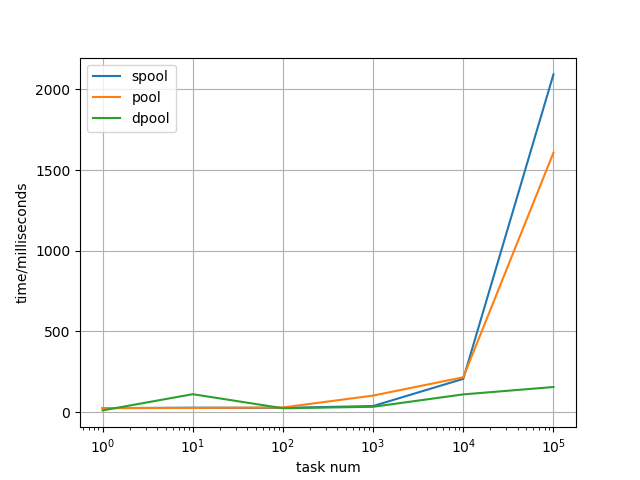
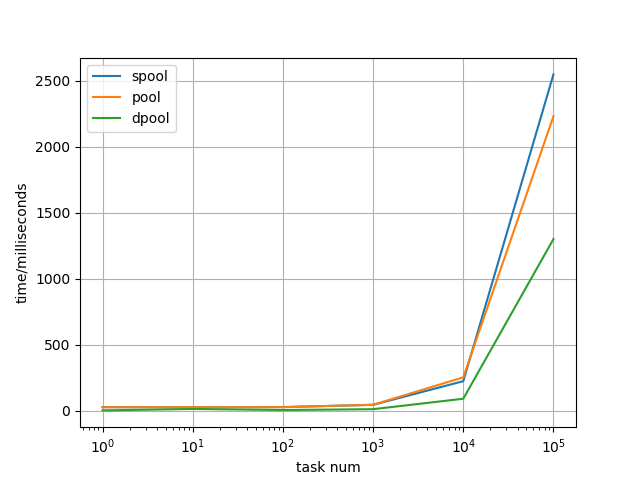
Big update: Better benchmark, README and performance

diff --git a/includes/dynamic_pool.hpp b/includes/dynamic_pool.hpp
@@ -25,13 +25,22 @@ namespace thread_pools
 class dpool final
 {
 public:
-    dpool(std::size_t = no_input, std::size_t = no_input, std::size_t = std::thread::hardware_concurrency());
+    dpool(std::size_t = 2 + std::thread::hardware_concurrency(), std::size_t = no_input);
     ~dpool();
     template <std::size_t Sz, typename Func, typename ... Args>
     auto enqueue(Func&& f, Args&& ... args) -> std::future<typename std::result_of<Func(Args...)>::type>;
     template <typename Func, typename ... Args>
     auto enqueue(Func&& f, Args&& ... args) -> std::future<typename std::result_of<Func(Args...)>::type>;
-    std::size_t current_threads() noexcept;
+    std::size_t current_threads();
+    std::size_t current_tasks();
+#ifdef GANLER_DEBUG
+    void unsafe_view()     noexcept {
+        std::cout << "----------------------------------------\n"
+                  << "Queue size:" << m_task_queue.size() << '\n'
+                  << "Thread size:" << m_workers.size()   << '\n'
+                  << "Idle threads:" << m_idle_num << '\n';
+    }
+#endif
 private:
     static constexpr std::size_t no_input        = std::numeric_limits<std::size_t>::max();
     using                        task_type       = std::function<void()>;
@@ -40,12 +49,12 @@ private:
 
     const std::size_t            m_max_size;
     const std::size_t            m_max_idle_size;
-    std::atomic<std::size_t>     m_idle_num;
+    std::atomic<std::size_t>     m_idle_num      { 0 };
     std::mutex                   m_mu;
     std::condition_variable      m_cv;
     thread_map                   m_workers;
     std::queue<task_type>        m_task_queue;
-    bool                         m_shutdown      = false;
+    std::atomic<bool>            m_shutdown      { false };
 
     // Helper
     void make_worker();                          // Called by locked function.
@@ -54,28 +63,28 @@ private:
 
 
 // Implementation
-inline std::size_t dpool::current_threads() noexcept
+inline std::size_t dpool::current_threads()
 {
     std::lock_guard<std::mutex> lock(m_mu);
     return m_workers.size();
 }
 
-inline dpool::dpool(std::size_t pre_alloc, std::size_t max_idle_sz, std::size_t max_sz)
+inline std::size_t dpool::current_tasks()
+{
+    std::lock_guard<std::mutex> lock(m_mu);
+    return m_task_queue.size();
+}
+
+inline dpool::dpool(std::size_t max_sz, std::size_t max_idle_sz)
 : m_max_size(max_sz), m_max_idle_size( max_idle_sz == no_input ? max_sz / 2 : max_idle_sz)
 {
-    pre_alloc = (pre_alloc == no_input) ? m_max_idle_size : pre_alloc;
-    if(pre_alloc > m_max_idle_size || m_max_idle_size >= m_max_size || m_max_size == 0)
-        throw std::logic_error("Please make sure: pre_alloc <= max_idle_sz && max_idle_sz < max_size && max_sz > 0\n");
-    m_workers.reserve(pre_alloc);
-    for (int i = 0; i < pre_alloc; ++i)
-        make_worker();
-    m_idle_num = pre_alloc;
+    if(m_max_idle_size > m_max_size || m_max_size == 0)
+        throw std::logic_error("Please make sure: max_idle_sz <= max_size && max_sz > 0\n");
 }
 
 inline void dpool::destroy_worker(thread_index index)
 {
-    m_task_queue.push([this, index](){
-        GANLER_DEBUG_DETAIL(m_workers[index].joinable())
+    m_task_queue.emplace([this, index](){
         if(!m_shutdown)
         {
             m_workers[index].join();
@@ -95,6 +104,7 @@ inline void dpool::make_worker()
             if(m_idle_num > m_max_idle_size and !m_shutdown)
             {// Cut the idle threads.
                 destroy_worker(std::this_thread::get_id());
+                --m_idle_num;
                 return;
             }
             --m_idle_num;
@@ -103,17 +113,14 @@ inline void dpool::make_worker()
             lock.unlock(); // LOCK IS OVER.
             task();
             ++m_idle_num;  // ATOMIC
-        }
-    }};
+        }}};
     ++m_idle_num;
     m_workers[thread.get_id()] = std::move(thread);
 }
 
 inline dpool::~dpool()
 {
-    std::unique_lock<std::mutex> lock(m_mu);
     m_shutdown = true;
-    lock.unlock();
     m_cv.notify_all(); // TODO: If I add this code, I found it sometimes become 3x slower. Why?
     std::for_each(m_workers.begin(), m_workers.end(), [](thread_map::value_type& x){ (x.second).join(); });
 }
@@ -122,35 +129,21 @@ template <std::size_t Sz, typename Func, typename ... Args>
 auto dpool::enqueue(Func &&f, Args &&... args) -> std::future<typename std::result_of<Func(Args...)>::type>
 {
     using return_type = typename std::result_of<Func(Args...)>::type;
-    std::packaged_task<return_type()>* task = nullptr; // Why raw pointer? See comments in static_pool.hpp's enqueue().
-    try_allocate(task, std::forward<Func>(f), std::forward<Args>(args)...);
-    auto result = task->get_future();
     if(m_idle_num == 0)
         for (int i = 0; i < std::min(Sz, m_max_idle_size); ++i)
             make_worker();
-    std::unique_lock<std::mutex> lock(m_mu);
-    m_task_queue.emplace([task](){ (*task)(); delete task; });
-    m_cv.notify_one();
-    return result;
+    MAKE_TASK()
 }
 
 template <typename Func, typename ... Args>
 auto dpool::enqueue(Func &&f, Args &&... args) -> std::future<typename std::result_of<Func(Args...)>::type>
 {
     using return_type = typename std::result_of<Func(Args...)>::type;
-    static std::size_t queue_size = 0;
-    std::packaged_task<return_type()>* task = nullptr; // Why raw pointer? See comments in static_pool.hpp's enqueue().
-    try_allocate(task, std::forward<Func>(f), std::forward<Args>(args)...);
-    auto result = task->get_future();
-    GANLER_DEBUG_DETAIL(current_threads())
-    if(m_idle_num == 0)
-        for (int i = 0; i < std::min(std::max(1ul, queue_size), m_max_idle_size); ++i)
-            make_worker();
-    std::unique_lock<std::mutex> lock(m_mu);
-    m_task_queue.emplace([task](){ (*task)(); delete task; });
-    queue_size = m_task_queue.size();
-    m_cv.notify_one();
-    return result;
+    MAKE_TASK(
+            auto sz = std::min({m_task_queue.size(), m_max_idle_size, m_max_size - m_workers.size()});
+            if(m_idle_num == 0 and m_workers.size() < m_max_size)
+                     for (int i = 0; i < sz; ++i)
+                             make_worker();)
 }
 
 }

diff --git a/benchmark.cpp b/benchmark.cpp
@@ -26,12 +26,14 @@ int main() {
 
     constexpr std::size_t psize = 1000;
 //    constexpr std::size_t mission_sz = 1;    // 10, 100, 1000, 10000, 100000
-    constexpr std::size_t execute_time = 10; // milli.
+    constexpr std::size_t execute_time = 1; // milli.
     constexpr std::size_t scale = 6;
 
     std::vector<double> answers[3];
 
     auto bench = [&](std::size_t mission_sz){
+        std::this_thread::sleep_for(std::chrono::milliseconds(1000));
+
         std::cout << ">>> Bench : mission size = " << mission_sz << '\n';
         {   // TEST for thread_pools::spool
             auto beg = std::chrono::steady_clock::now();
@@ -44,6 +46,8 @@ int main() {
             std::cout << "[STATIC POOL TEST] "  << psize << " threads execute time: " << answers[0].back() << " ms\n";
         }
 
+        std::this_thread::sleep_for(std::chrono::milliseconds(1000));
+
         {   // TEST for thread_pools::pool
             auto beg = std::chrono::steady_clock::now();
             {
@@ -55,10 +59,12 @@ int main() {
             std::cout << "[DEFAULT POOL TEST] "  << psize << " threads execute time: " << answers[1].back() << " ms\n";
         }
 
+        std::this_thread::sleep_for(std::chrono::milliseconds(1000));
+
         {   // TEST for thread_pools::dpool
             auto beg = std::chrono::steady_clock::now();
             {
-                thread_pools::dpool pool(0, psize/2, psize);
+                thread_pools::dpool pool(psize); // max_pool_size
                 for (int i = 0; i < mission_sz; ++i)
                     pool.enqueue([execute_time](){ std::this_thread::sleep_for(std::chrono::milliseconds(execute_time)); });
             }

diff --git a/includes/util.hpp b/includes/util.hpp
@@ -4,14 +4,36 @@
 #pragma once
 
 //#define GANLER_DEBUG
+#define TASK_USE_RAW_PTR(X)  \
+    std::packaged_task<return_type()>* task = nullptr;/* Why raw pointer? See comments in static_pool.hpp's enqueue().*/\
+    try_allocate(task, std::forward<Func>(f), std::forward<Args>(args)...);\
+    auto result = task->get_future();\
+    std::lock_guard<std::mutex> lock(m_mu);\
+    m_task_queue.emplace([task](){ (*task)(); delete task; });\
+    X;\
+    m_cv.notify_one();\
+    return result;
+
+#define TASK_USE_SMART_PTR(X) \
+    auto task = std::make_shared<std::packaged_task<return_type ()>>(\
+        std::bind(std::forward<Func>(f), std::forward<Args>(args)...));\
+    auto result = task->get_future();\
+    std::lock_guard<std::mutex> lock(m_mu);\
+    m_task_queue.emplace([task](){ (*task)();});\
+    X\
+    m_cv.notify_one();\
+    return result;
+
+#define MAKE_TASK(X) TASK_USE_RAW_PTR(X)
 
 #ifdef GANLER_DEBUG
 #include <iostream>
 #define GANLER_DEBUG_DETAIL(X) { std::cout << "line: "<< __LINE__ << "\t " << (#X) << " is " << (X) << '\n'; }
+#define DPOOL_UNSAFE_VIEW(X)   { X.unsafe_view(); }
 #else
 #define GANLER_DEBUG_DETAIL(X) {}
+#define DPOOL_UNSAFE_VIEW(X)   {}
 #endif
-
 
 #include <type_traits>
 

diff --git a/includes/static_pool.hpp b/includes/static_pool.hpp
@@ -65,13 +65,7 @@ auto spool<Sz>::enqueue(Func &&f, Args &&... args) -> std::future<typename std::
 // But some new compilers are still using old libc++ version.  So I used raw ptr to make my code more compatible.
 //    auto task = std::make_shared< std::packaged_task<return_type()> >(
 //      std::bind(std::forward<Func>(f), std::forward<Args>(args)...)); // Just use raw ptr if you don't care exception.
-    std::packaged_task<return_type()>* task = nullptr;
-    try_allocate(task, std::forward<Func>(f), std::forward<Args>(args)...);
-    auto result = task->get_future();
-    std::unique_lock<std::mutex> lock(m_mu);
-    m_task_queue.emplace( [task](){ (*task)(); delete task; } ); // The benefit of lambda: get more chance to inline.
-    m_cv.notify_one();
-    return result;
+    MAKE_TASK()
 }
 
 template <std::size_t Sz> inline spool<Sz>::~spool()

diff --git a/includes/default_pool.hpp b/includes/default_pool.hpp
@@ -56,13 +56,7 @@ template <typename Func, typename ... Args>
 auto pool::enqueue(Func &&f, Args &&... args) -> std::future<typename std::result_of<Func(Args...)>::type>
 {
     using return_type = typename std::result_of<Func(Args...)>::type;
-    std::packaged_task<return_type()>* task = nullptr; // Why raw pointer? See comments in static_pool.hpp's enqueue().
-    try_allocate(task, std::forward<Func>(f), std::forward<Args>(args)...);
-    auto result = task->get_future();
-    std::unique_lock<std::mutex> lock(m_mu);
-    m_task_queue.emplace( [task](){ (*task)(); delete task; } ); // The benefit of lambda: get more chance to inline.
-    m_cv.notify_one();
-    return result;
+    MAKE_TASK()
 }
 
 inline pool::~pool()

diff --git a/README.md b/README.md
@@ -54,11 +54,11 @@ cmake .. && make -j4 && ./thread_pools
 ```
 
 Copy the output python script and run it. You can see the results.
-(Note that each task cost 10ms. For each pool, it can at most create `psize` threads to finish `mission_sz` tasks.)
+(Note that each task cost 1m. For each pool, it can at most create `psize` threads to finish `mission_sz` tasks.)
 
-![](images/benchmark.png)
+![](images/benchmark-1ms.png)
 
-## How I designed the dynamic pool
+## How I Designed the Dynamic Pool
 
 ![](images/thread_theory.png)
 
@@ -73,6 +73,26 @@ See my comments on `spool::enqueue` in static_pool.hpp for more details.
 Old shared_ptr version's performance:
 
 ![](images/shared_ptr_benchmark.png)
+
+## When Should You Use the Dynamic Pool
+
+Mainly 2 situations:
+
+- The amount of tasks are usually unknown.
+- Your task running time is short(less than 3ms).
+
+> This comes to the benefits of my dynamic pool:
+> `dpool` can be very fast when each task's run time is short, as `dpool` create and destroy threads very fast.
+> `dpool` can also be very fast when `task_num << max_size_of_the_pool`, as it will dynamically change the thread size.
+
+Note that: **All the three pools will be the nearly same performance level** when your task scale is:
+
+- Each task cost a relative long time(much longer than creating and destroying the threads).
+- Your amount of task is much bigger than that of your threads.
+
+To show this, I tested their performance where each task cost 10ms(bigger than original 1ms):
+
+![](images/benchmark.png)
 
 ## TODOS
 
